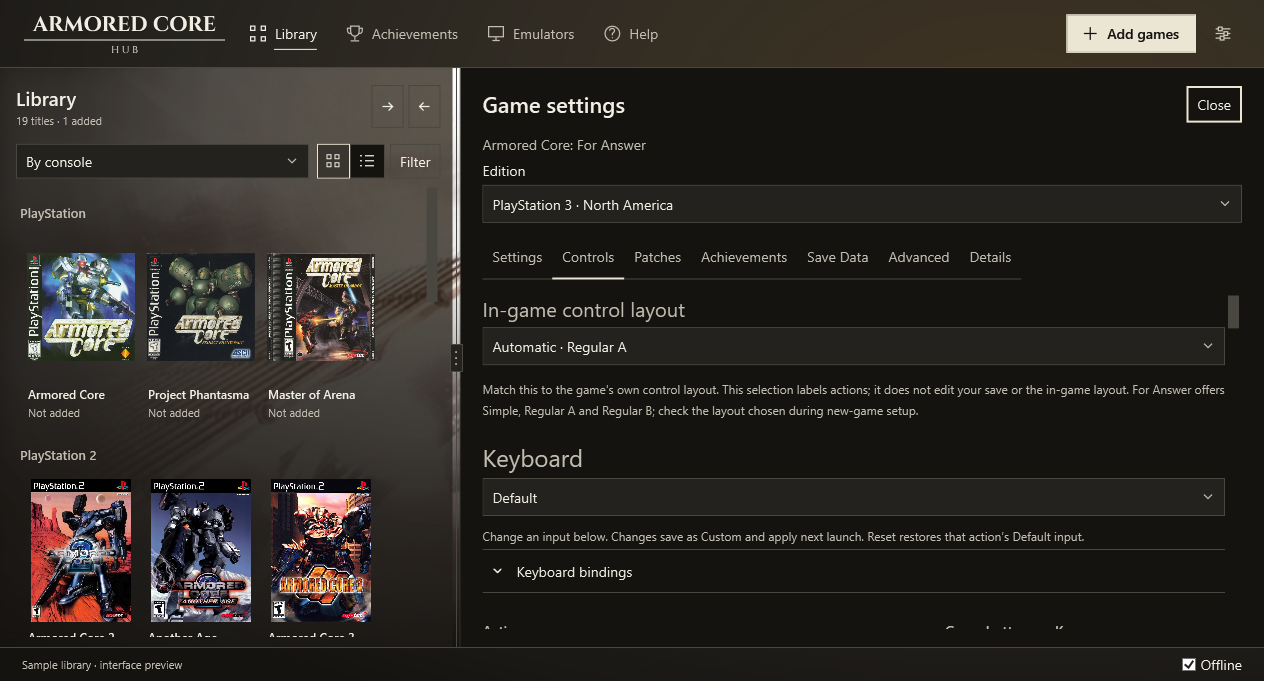
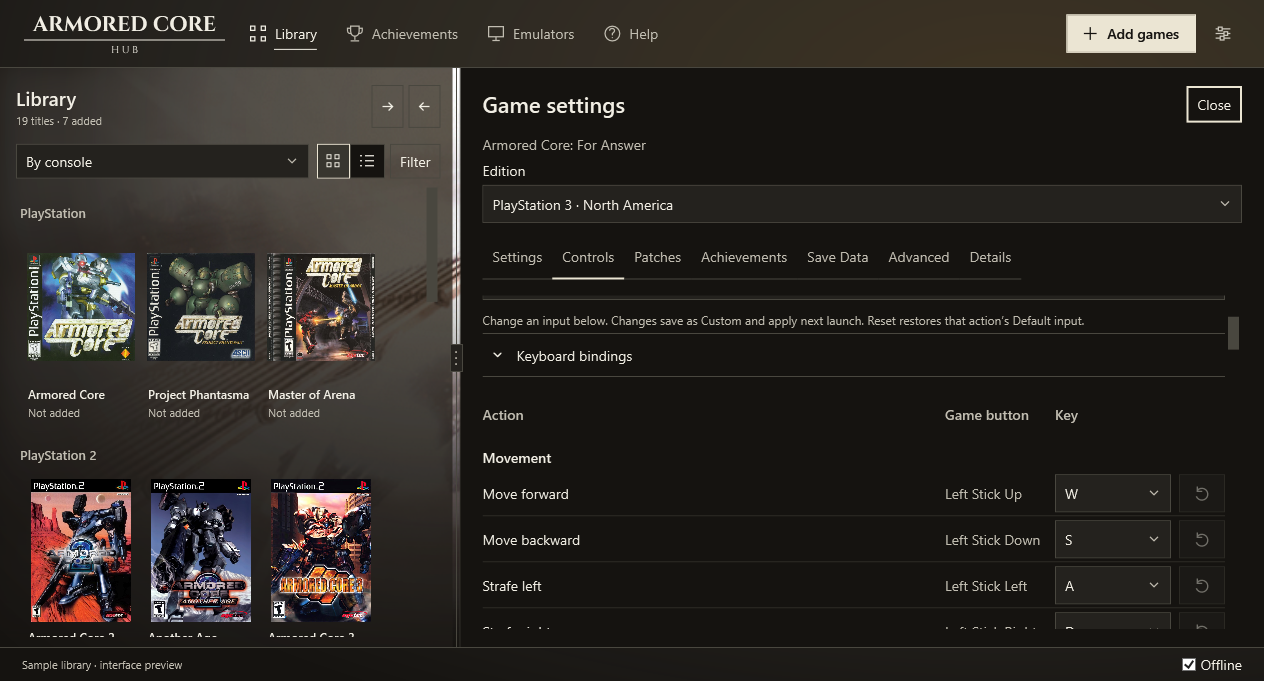
Use compact header and expand the native screenshot gallery

diff --git a/scripts/check-public-source.py b/scripts/check-public-source.py
@@ -16,7 +16,7 @@ allowed_binary = {
     "tests/Hub.Tests/fixtures/password-media.7z", "tests/Hub.Tests/fixtures/synthetic-media.7z",
 }
 patterns = {
-    "GitHub token": r"(?:ghp_[A-Za-z0-9]{30,}|github_pat_[A-Za-z0-9_]{40,})",
+    "GitHub token": r"(?:gh[pousr]_[A-Za-z0-9]{30,}|github_pat_[A-Za-z0-9_]{40,})",
     "private key": r"-----BEGIN (?:RSA |EC |OPENSSH )?PRIVATE KEY-----",
     "private user path": r"[A-Z]:[/\\]+Users[/\\]+JackF(?:[/\\]|\b)",
     "removed game-download site": r"vimm\.net",

diff --git a/README.md b/README.md
@@ -1,23 +1,24 @@
-<p align="center">
-  <img src="docs/media/wordmark.svg" alt="Armored Core Hub" width="460">
-</p>
+<picture>
+  <source media="(prefers-color-scheme: dark)" srcset="docs/media/compact-dark.svg">
+  <img src="docs/media/compact-light.svg" alt="Armored Core Hub" width="460">
+</picture>
 
-<p align="center">A portable Windows launcher for the earlier Armored Core games.</p>
+A portable Windows launcher for the earlier Armored Core games.
 
-<p align="center">
+<p>
   <a href="https://github.com/peachyGT/armored-core-hub/releases">Download</a> ·
   <a href="docs/usage.md">User guide</a> ·
   <a href="https://github.com/peachyGT/armored-core-hub/issues">Report a bug</a> ·
   <a href="CONTRIBUTING.md">Contribute</a>
 </p>
 
-<p align="center">
+<p>
   <a href="https://github.com/peachyGT/armored-core-hub/actions/workflows/build.yml"><img src="https://github.com/peachyGT/armored-core-hub/actions/workflows/build.yml/badge.svg" alt="Windows build and tests"></a>
-  <a href="https://github.com/peachyGT/armored-core-hub/releases"><img src="https://img.shields.io/badge/version-0.3.10_preview-49473f?labelColor=24221e" alt="Version 0.3.10 preview"></a>
+  <a href="https://github.com/peachyGT/armored-core-hub/releases"><img src="https://img.shields.io/github/v/release/peachyGT/armored-core-hub?include_prereleases&amp;label=preview&amp;color=49473f&amp;labelColor=24221e" alt="Latest preview"></a>
   <a href="LICENSE"><img src="https://img.shields.io/badge/license-MIT-49473f?labelColor=24221e" alt="MIT license"></a>
 </p>
 
-![The Hub's library and selected-game view](docs/media/library.png)
+![The Hub's library and selected-game view](docs/media/library-wide-desktop.png)
 
 Keep your collection, emulator setup, controls and saves in one place. The Hub covers PlayStation, PlayStation 2, PSP, PlayStation 3 and Xbox 360 editions through DuckStation, PCSX2, PPSSPP, RPCS3 and Xenia Canary.
 
@@ -33,9 +34,30 @@ Keep your collection, emulator setup, controls and saves in one place. The Hub c
 - Tracks supported native trophies and achievements, or RetroAchievements sets where available. Not every game has a set.
 - Warns before closing a running game and stops emulator/helper processes launched by the Hub when it exits.
 
+## A look inside
+
 ![A short tour of the library, controls and setup checklist](docs/media/tour.gif)
 
-The previews use the real native interface and a sample library. Game artwork belongs to its respective owners. No game files or artwork collection are included in the download.
+The captures show the real native interface in an isolated preview copy. No game was launched to make them. Game artwork belongs to its respective owners; no game files or reusable artwork collection are included in the download.
+
+| Library across generations | Compact game view |
+| --- | --- |
+| [![A wide library view with Armored Core 2 selected](docs/media/early-generations.png)](docs/media/early-generations.png) | [![Armored Core V at a smaller window size](docs/media/compact-game.png)](docs/media/compact-game.png) |
+| Keep editions grouped while the scene fills the remaining space. | The same library and game actions adapt to a smaller window. |
+
+| Edit bindings by action | Per-game graphics settings |
+| --- | --- |
+| [![Editable keyboard action rows](docs/media/controls.png)](docs/media/controls.png) | [![Graphics presets, rendering scale and output settings](docs/media/graphics.png)](docs/media/graphics.png) |
+| Each row shows the action, game button and binding, with its own reset. | Rendering scale, window resolution and supported FPS targets stay separate. |
+
+<details>
+<summary>More screenshots: the PS2 library and setup checklist</summary>
+
+![A filtered PS2 library with Last Raven selected](docs/media/ps2-library.png)
+
+![The selected game's setup checklist](docs/media/setup.png)
+
+</details>
 
 ## Get started
 

diff --git a/THIRD-PARTY-NOTICES.md b/THIRD-PARTY-NOTICES.md
@@ -28,7 +28,7 @@ Product titles/serials and compatibility conclusions cite DuckStation, PCSX2, PP
 
 Impeccable was used during development from [pbakaus/impeccable](https://github.com/pbakaus/impeccable) under Apache-2.0. The full license is in third-party/Impeccable-LICENSE.txt. Its local tool checkout is separate from the published application source; the Hub's MIT license does not replace its license.
 
-No commercial media, BIOS dump, texture pack, community binary patch or copyrighted cover artwork is included in the standard ZIP. The Hub downloads selected covers locally using the sources, hashes and attributions in `manifests/covers.json`. Artwork remains the property of its original owners and is not covered by the Hub's MIT license. Sources: xlenore PSX/PS2 covers, Libretro thumbnails, GameTDB, aldostools Resources, Xenia Manager x360db and LaunchBox Games Database. See [cover source and use notes](docs/research/cover-art.md), including the credit link to [GameTDB](https://www.gametdb.com). Armored Core and associated game names remain their owners' trademarks.
+No commercial media, BIOS dump, texture pack, community binary patch or standalone cover-art collection is included in the standard ZIP. Documentation screenshots depict game artwork within the Hub interface; they do not grant a license to reuse that artwork. The Hub downloads selected covers locally using the sources, hashes and attributions in `manifests/covers.json`. Artwork remains the property of its original owners and is not covered by the Hub's MIT license. Sources: xlenore PSX/PS2 covers, Libretro thumbnails, GameTDB, aldostools Resources, Xenia Manager x360db and LaunchBox Games Database. See [cover source and use notes](docs/research/cover-art.md), including the credit link to [GameTDB](https://www.gametdb.com). Armored Core and associated game names remain their owners' trademarks.
 
 The bundled geometric wing/core application icon (`Assets/Hub.svg` and generated `Hub.ico`) is original project artwork under the project's MIT license. It is used consistently in 0.3.2, including the local preview. The supplied Joshua O'Brien/White Glint emblem was evaluated in the older private 0.3.1 preview; it is not part of this version. See [icon provenance research](docs/research/native-finishing.md).
 

diff --git a/docs/media/README.md b/docs/media/README.md
@@ -1,8 +1,8 @@
 # Presentation assets
 
-The captures show the native 0.3.10 WPF interface with an isolated sample library. No commercial game was launched to make these previews. Sample registration data is illustrative; it is not compatibility evidence.
+The captures show the native 0.3.10 WPF interface in an isolated preview copy. The initial layout samples used a synthetic registration; the expanded gallery reads an existing collection and artwork without changing its media or installed Hub. No commercial game was launched to make these previews. The captures are not gameplay or compatibility evidence.
 
-The wordmark uses the project's Cinzel font, converted to SVG outlines. Its SIL Open Font License is retained in `third-party/Cinzel-OFL.txt`. Framing, captions and the application icon are project design assets. No AI-generated illustration is used.
+The wordmarks use the project's Cinzel font, converted to SVG outlines. Its SIL Open Font License is retained in `third-party/Cinzel-OFL.txt`. The compact wordmark has light and dark variants. Framing, captions and the application icon are project design assets. No AI-generated illustration is used.
 
 The displayed covers and For Answer background are existing game artwork. They belong to their respective owners and are not covered by the Hub's MIT license. Cover sources and credits are recorded in [the artwork report](../research/cover-art.md). The full source images and user library are not published here. These previews do not provide a reusable game-art pack.
 
